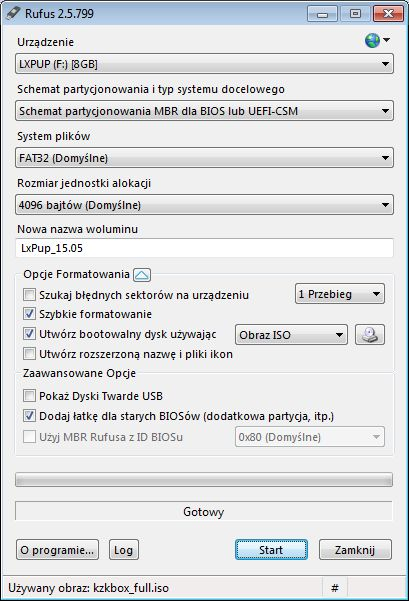
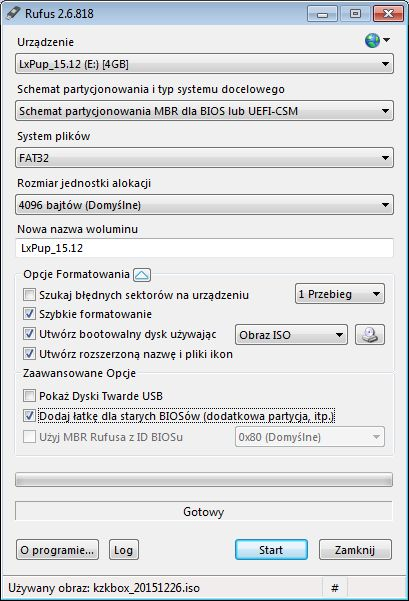
Aktualizacja dokumentacji w związku z nowymi obrazami iso KzkBox opartymi o nową wersję LxPup 15.12

diff --git a/docs/env/linux.rst b/docs/env/linux.rst
@@ -8,16 +8,28 @@ Jeżeli nie masz zainstalowanego systemu Linux, możesz wykorzystać wersję
 Jeżeli masz Linuksa lub planujesz go zainstalować na dysku, czytaj dalej.
 
 W systemach linuksowych Python 2.7.x zainstalowany jest domyślnie,
-wersję 3 również. Potrzebne narzędzia instalujemy przy użyciu systemowego
-menedżera pakietów, natomiast biblioteki wykorzystywane w materiałach za pomocą
-instalatora pakietów Pythona ``pip``.
+wersja 3.x również. Potrzebne narzędzia/biblioteki instalujemy przy użyciu systemowego
+menedżera pakietów i/lub instalatora pakietów Pythona ``pip``.
 
-Narzędzia:
+Narzędzia wymagane:
 
-* pip – instalator pakietów Pythona
-* virtualenv – menedżer wirtualnych środowisk
-* git – narzędzie umożliwiające korzystanie z zasobów serwisu `Github <https://github.com/>`
-* ipython – rozszerzona interaktywna konsola Pythona
+* `pip <https://pip.pypa.io/en/stable/>`_  – instalator pakietów Pythona, podstawowe narzędzie
+  służące do zarządzania pakietami Pythona zgromadzonymi np.
+  w repozytorium `PyPI <https://pypi.python.org/pypi>`_  (Python Package Index);
+* `virtualenv <https://virtualenv.readthedocs.org/en/latest/>`_  – menedżer wirtualnych środowisk Pythona,
+  pozwala tworzyć katalogi zawierające izolowane środowisko Pythona umożliwiające instalowanie
+  wybranych wersji pakietów przez zwykłych użytkowników;
+* `klient git <https://git-scm.com/downloads>`_  – narzędzie umożliwiające korzystanie z repozytoriów
+  kodu i dokumentacji w serwisie `Github <https://github.com/>`_
+* `sqlite3 <https://www.sqlite.org/>`_ – konsolowa powłoka dla baz SQLite3, umożliwia przeglądanie
+  schematów tabel oraz zarządzanie bazą za pomocą języka SQL.
+
+Narzędzia dodatkowe:
+
+* `ipython <http://ipython.org/>`_ – rozszerzona interaktywna konsola Pythona;
+* `qtconsole <http://jupyter.org/qtconsole/stable/>`_  – rozszerzona interaktywna konsola
+  Pythona wykorzystująca bibliotekę Qt, umożliwia m. in. wyświetlanie wykresów utworzonych
+  z wykorzystaniem *matplotlib*.
 
 .. contents:: Spis treści
     :backlinks: none
@@ -25,61 +37,56 @@ Narzędzia:
 .. note::
 
     * Nazwy pakietów w różnych dystrybucjach mogą się nieco różnić od podanych.
-    * *Pygame* to jedyna biblioteka, którą trzeba instalować za pomocą systemowego
-      menedżera pakietów.
-    * Systemy Debian i Arch Linux w domyślnej konfiguracji nie wykorzytują
+    * Systemy *Debian* i *Arch Linux* w domyślnej konfiguracji nie wykorzystują
       mechanizmu podnoszenia uprawnień ``sudo``, dlatego polecenia instalacji
-      należy wydawać z konta użytkownika root (w kodzie oznaczane znakami ``~#``).
+      należy wydawać z konta użytkownika root, co oznaczamy znakami ``~#``.
+    * W systemach opartych na *Debianie* (*(X)Ubuntu, LinuxMint* itp.) polecenie ``python``
+      domyślnie wywołuje Pythona 2, w systemach opartych na *Arch Linuksie* – Pythona 3.
+      Aby użyć interpretera Pythona 2, w *Archu* itp. trzeba wydać polecenie ``python2``.
 
-Debian, Ubuntu i pochodne
--------------------------
+Narzędzia i biblioteki
+-----------------------
 
-W systemach opartych na Debianie (m. in. wszystkie wersje Ubuntu, LinuxMint itd.)
-używamy menedżera ``apt-get`` i w terminalu wydajemy następujące polecenia:
+W systemach opartych na *Debianie* (*(X)Ubuntu, LinuxMint* itp.)
+w terminalu wydajemy następujące polecenia:
 
 .. code-block:: bash
 
     ~$ sudo apt-get update
-    ~$ sudo apt-get install python-pip python-virtualenv git ipython python-pygame sqlite3
-    ~$ sudo pip install --upgrade pip
-    ~$ sudo pip install --upgrade virtualenv
-    ~$ sudo pip install Flask Django peewee sqlalchemy flask-sqlalchemy matplotlib
+    ~$ sudo apt-get install python-pip python-pygame python-matplotlib git sqlite3
+    ~$ sudo apt-get install ipython ipython-qtconsole
+    ~$ sudo pip install virtualenv flask django peewee sqlalchemy flask-sqlalchemy
 
-Jeśli ``apt-get`` zgłosi problem z dostępnością pakietu, w systemach Ubuntu i pochodnych
-należy spróbować włączyć dodatkowe źródła oprogramowania:
-
-.. figure:: img/universe.png
-
-Arch Linux i pochodne
----------------------
-
-W systemach opartych na Arch Linuksie (Bridge Linux, Manjaro)
-wykorzystują menedżer ``pacman``. Odpowiednie polecenia mają postać:
+W systemach opartych na *Arch Linuksie* (*Manjaro* itp.)
+w terminalu wydajemy następujące polecenia:
 
 .. code-block:: bash
 
     ~# pacman -Syyu
-    ~# pacman -S python2-pip python2-virtualenv git ipython2 python2-pygame sqlite
-    ~# pip2 install Flask Django peewee sqlalchemy flask-sqlalchemy matplotlib
+    ~# pacman -S python2-pip python2-pygame python2-matplotlib git sqlite
+    ~# pacman -S ipython2-notebook python2-pyqt5
+    ~# pip2 install virtualenv flask django peewee sqlalchemy flask-sqlalchemy
 
-W innych systemach linuksowych należy korzystać z dedykowanych menedżerów
-lub wspomnianego instalatora Pythona (``pip``).
+Pip
+-------
 
-Narzędzie ``pip``
------------------
-
-Aby sprawdzić listę zainstalowanych modułów, wydajemy polecenie:
+Przydatne polecenia:
 
 .. code-block:: bash
 
-    ~$ pip list
-
-Aby zaktualizować jakiś pakiet:
-
-.. code-block:: bash
-
-    ~$ pip install --upgrade Django
+    ~$ pip -V  # wersja narzędzia pip
+    ~$ pip list  # lista zainstalowanych pakietów
+    ~$ sudo pip install nazwa_pakietu  # instalacja pakietu
+    ~$ sudo pip install nazwa_pakietu -U  # aktualizacja pakietu
+    ~$ sudo pip uninstall  # usunięcie pakietu
 
 .. note::
-    W zależności od konfigracji polecenie te należy wydać z uprawnieniami
-    administratora, np. z użyciem ``sudo`` lub z konta roota.
+
+    Aktualizacja biblioteki *matplotlib* oraz narzędzi *ipython* i *qtconsole*
+    w systemach opartych na Debianie wymaga doinstalowania środowiska
+    umożliwijącego kompilację:
+
+.. code-block:: bash
+
+    ~$ sudo apt-get install build-essential libpng12-dev zlib1g-dev libfreetype6-dev python-dev
+    ~$ sudo pip install matplotlib ipython qtconsole

diff --git a/docs/env/live.rst b/docs/env/live.rst
@@ -21,7 +21,7 @@ również w maszynie wirtualnej, na dysku twardym lub wykorzystać do odzyskiwan
 Poniżej opisujemy instalację *Linux Live* na kluczu USB oraz w maszynie wirtualnej tak,
 aby można było instalować oprogramowanie, zapisywać ustawienia i tworzone dokumenty.
 
-Polecamy dystrybucję `LxPupTahr 15.05.02 <http://lx-pup.weebly.com/>`_ – zaprojektowaną
+Polecamy dystrybucję `LxPupTahr 15.12 <http://lx-pup.weebly.com/>`_ – zaprojektowaną
 od podstaw jako *live* z możliwością zapisywania zmian. Oparta jest na stabilnym
 Ubuntu 14.04 LTS. Zawiera środowisko graficzne LXDE.
 **Na potrzeby szkoleń** i **do relalizacji naszych scenariuszy** przygotowaliśmy dostosowaną
@@ -38,8 +38,10 @@ W Windows
 
 * Pobieramy :term:`obraz iso`:
 
-  - `LxPupTahr Full <https://copy.com/9WzmbHVn8T8UxsSN/tahrpup/kzkbox_full.iso?download=1>`_ (570MB, zawiera edytory Geany 1.24, PyCharm Professional 5.0.1 i SublimeText 3)
-  - lub: `LxPupTahr Base <https://copy.com/9WzmbHVn8T8UxsSN/tahrpup/kzkbox.iso?download=1>`_ (325MB, zawiera edytor Geany 1.25, edytory PyCharm i SublimeText można łatwo doinstalować)
+  - `LxPupTahr Full <https://copy.com/9WzmbHVn8T8UxsSN/tahrpup/kzkbox_20151227_full.iso?download=1>`_
+    (608MB, zawiera edytory Geany 1.25, PyCharm Professional 5.0.3 i SublimeText 3)
+  - lub: `LxPupTahr Base <https://copy.com/9WzmbHVn8T8UxsSN/tahrpup/kzkbox_20151226.iso?download=1>`_
+    (384MB, zawiera edytor Geany 1.25, edytory PyCharm i SublimeText można łatwo doinstalować)
 
 * Do wgrania *LxPupTahr* pobieramy program `Rufus <https://rufus.akeo.ie/>`_.
 
@@ -56,7 +58,7 @@ W Windows
 .. tip::
 
   Po nagraniu systemu *LxPupTahr*, koniecznie przeczytaj :ref:`Pierwsze uruchomienie <lxpuptahr>`!!!
-  Jeżeli pobrałeś wersję BASE, przeczytaj jak łatwo dodać :ref:`edytory PyCharm i/lub Sublime Text3 <sfs-pet>`.
+  Jeżeli pobrałeś wersję BASE, przeczytaj, jak łatwo dodać :ref:`edytory PyCharm i/lub Sublime Text3 <sfs-pet>`.
 
 W Linuksie
 ===========
